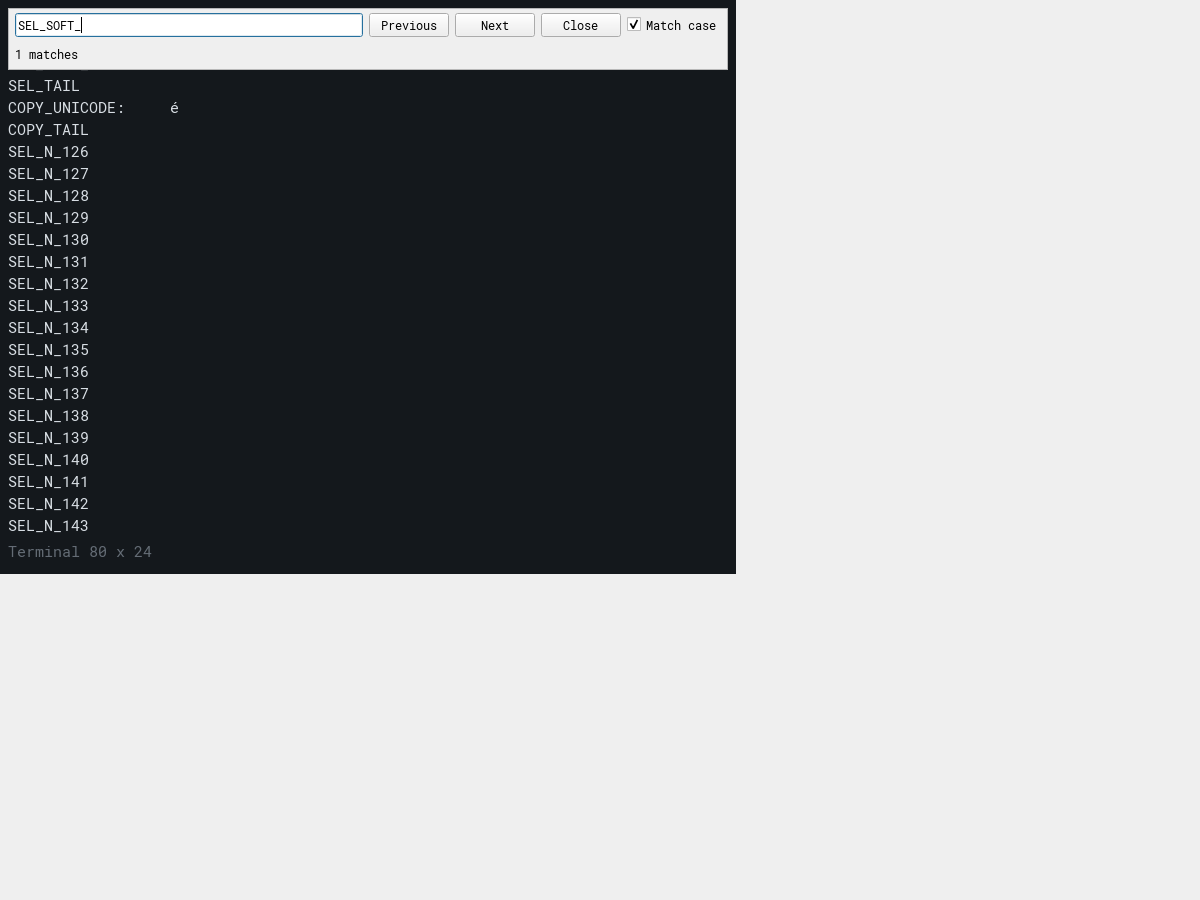
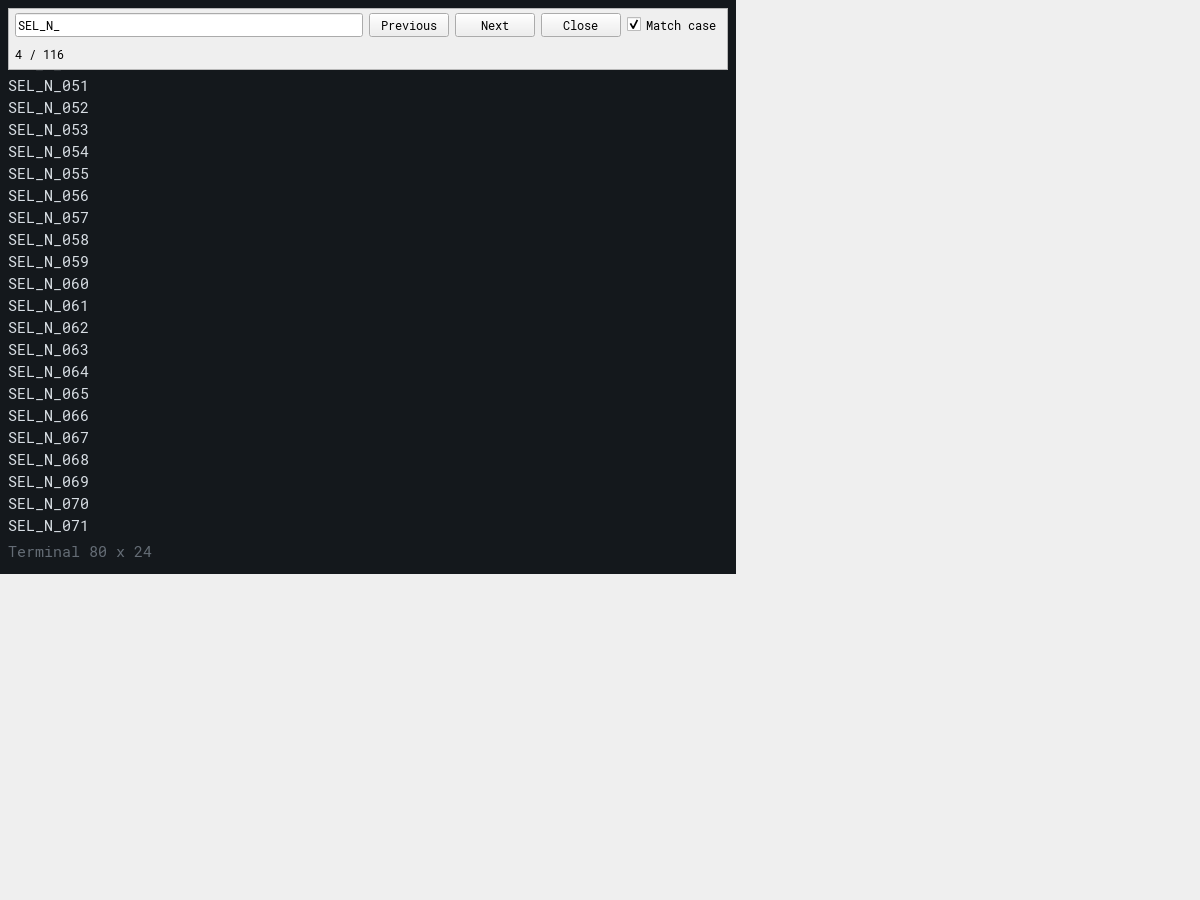
docs(qt): close the Find acceptance gap map

diff --git a/experiments/shell/results/2026-11-06-qt-find/README.md b/experiments/shell/results/2026-11-06-qt-find/README.md
@@ -11,7 +11,8 @@
 
 ## 验证
 
-- `qt_find` 1/1，Qt 正式路径 10/10；确定性 selection child：`Ctrl+Shift+F` 实际按键、查询焦点、`SEL_SOFT_` 源命中、历史 reveal、高亮投影、Previous/Next、无命中、Escape 焦点恢复、4096 查询上限；未触个人剪贴板/桌面。
+- `qt_find` 1/1，Qt 正式路径 10/10；two real selection children with independent input recording：multiple `SEL_N_` matches 的顺序/index、双向 wrap、精确源文本/列与显示宽度、历史 reveal、缩窄/扩大同源迁移、淘汰不复活、RIS 旧 epoch 失效；两个会话查询隔离，查询零泄漏到 child，Escape 后 `Z` 恰好一次只到正确 child；空查询、实际 Match case、4097-byte/中文/NFD 超限拒绝、Return/F3/Shift+F3。未触个人剪贴板/桌面。
+- 1024 结果上限由既有 TextSearch 合同/核心 capped 测试覆盖；固定 child 的 100 行历史无法在真实入口达到 1024，未用伪造大文档冒充用户证据。
 - 截图：[find-panel.png](find-panel.png)（同一真实 Qt 测试窗口，历史命中态；离屏，不代表物理 DPI/呈现）。
 - 当前 head CI 与源码/构建身份见 [validation.json](validation.json)；本切片不代表 #29/#30/R2 完成。
 
@@ -19,4 +20,20 @@
 
 - 固定样例/ASCII 字面量与离屏 Qt；中文/NFD 只声明字面标量匹配，不宣称字素/glyph/宽度等价。
 - 不覆盖选词/选行、滚动条/翻页键历史、备用屏/TUI Find、物理呈现/DPI、完整 Unicode 字素或性能阈值；不新增数值性能验收。
+- 1024 结果截断仅有核心合同覆盖；真实 child 保留上限 100 行，不能到达 1024，未伪造。
 - 旧 B/CD、192.168.3.210 校准/v2、A/B/C、旧六阶段失败、#27/#29/#30/#35/#7 状态不变。
+
+
+## 原派单缺口 → 证据
+
+| 原要求 | 本次证据 |
+|---|---|
+| 多命中准确顺序/循环/当前页与历史页 | 多个 `SEL_N_` 顺序/index、双向 wrap、历史 reveal、精确源文本/列和显示宽度 |
+| 缩窄扩大同源迁移、写入/淘汰失效、旧 epoch | resize 前后源 range 不变；淘汰后无复活；RIS 后旧位置拒绝、新 epoch 可查 |
+| 双会话隔离、Escape 后输入只到正确 child | 两个真实 child + 独立输入文件；查询零泄漏，Escape 后 `Z` 恰好一次到目标 |
+| 空查询、大小写、1024 截断/有限循环、4096 字节边界 | 空查询/Match case/Return/F3/Shift+F3/ASCII+中文+NFD 超限明确拒绝；1024 由核心 capped 测试覆盖，真实 child 100 行无法到达，明确记录 |
+| 公开入口而非测试 setter 替代 | 首次查询、空查询、大小写、超限、Return/F3 均经真实查询框按键/编辑；setter 只用于前置观测 |
+
+## 身份
+
+源码/测试/构建身份见 [validation.json](validation.json)；截图为本机同一 Qt 测试窗口的离屏历史命中态。
